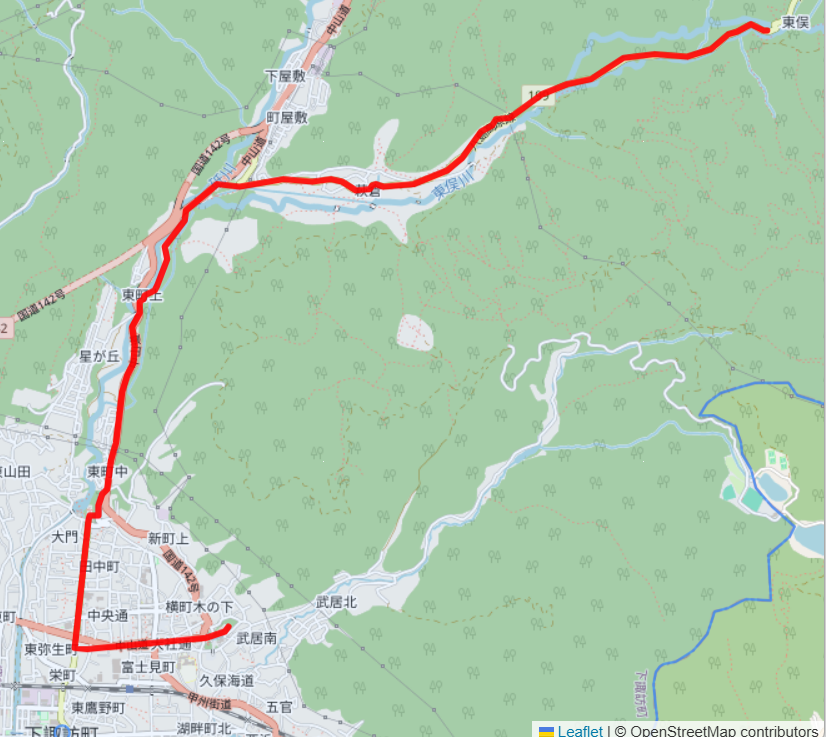
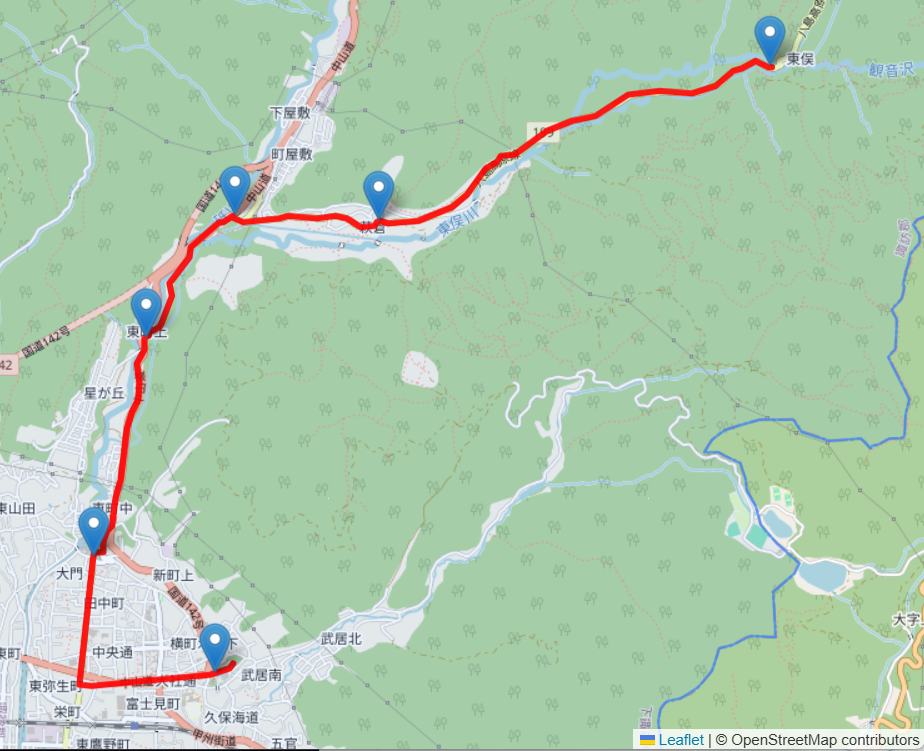
change

diff --git a/view/map-data.js b/view/map-data.js
@@ -79,7 +79,7 @@ window.pointLinks = [
   },
   {
     name: "大灯篭",
-    type: ["spot"],
+    type: ["spot", "onbashira"],
     lat: 36.074476291256325,
     lng: 138.0809982087262,
     url: "https://shimosuwa.info/pages/大灯篭/"
@@ -143,8 +143,8 @@ window.pointLinks = [
   {
     name: "木落し坂",
     type: ["onbashira", "taisha"],
-    lat: 36.100306700042005,
-    lng: 138.09171673475774,
+    lat: 36.100270,
+    lng: 138.091637,
     url: "https://shimosuwa.info/pages/木落し坂/"
   },
   {
@@ -222,8 +222,8 @@ window.pointLinks = [
     name: "棚木場",
     type: ["onbashira"],
     _note: "with link from pages",
-    lat: 36.108603454145566,
-    lng: 138.12840882855411,
+    lat: 36.108544,
+    lng: 138.128587,
     url: "https://shimosuwa.info/pages/棚木場/"
   },
   {
